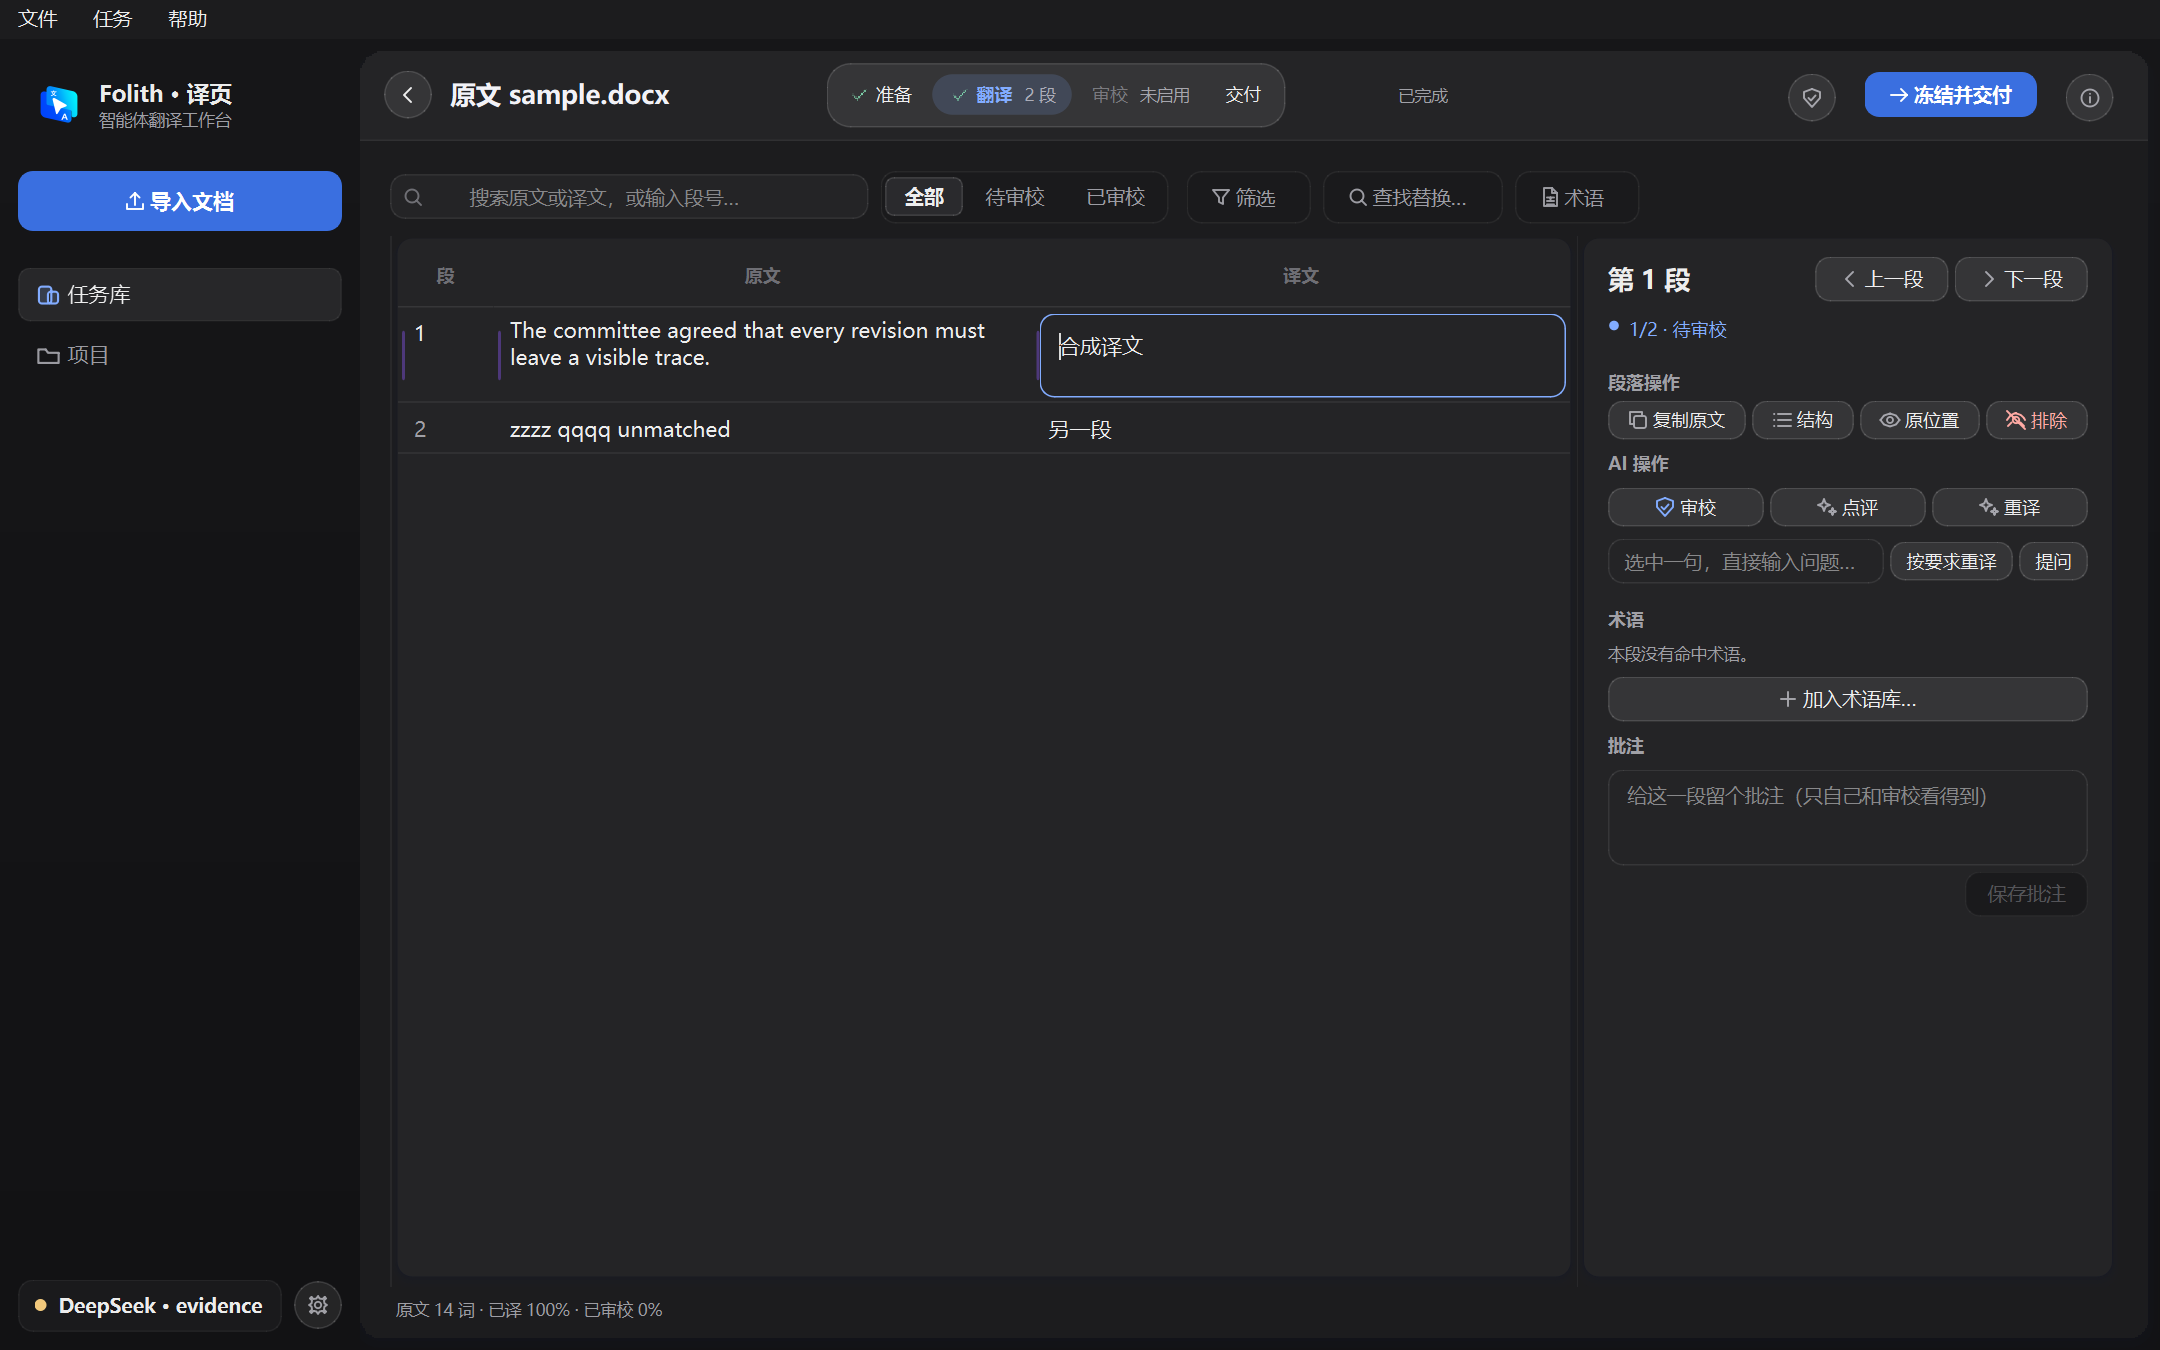
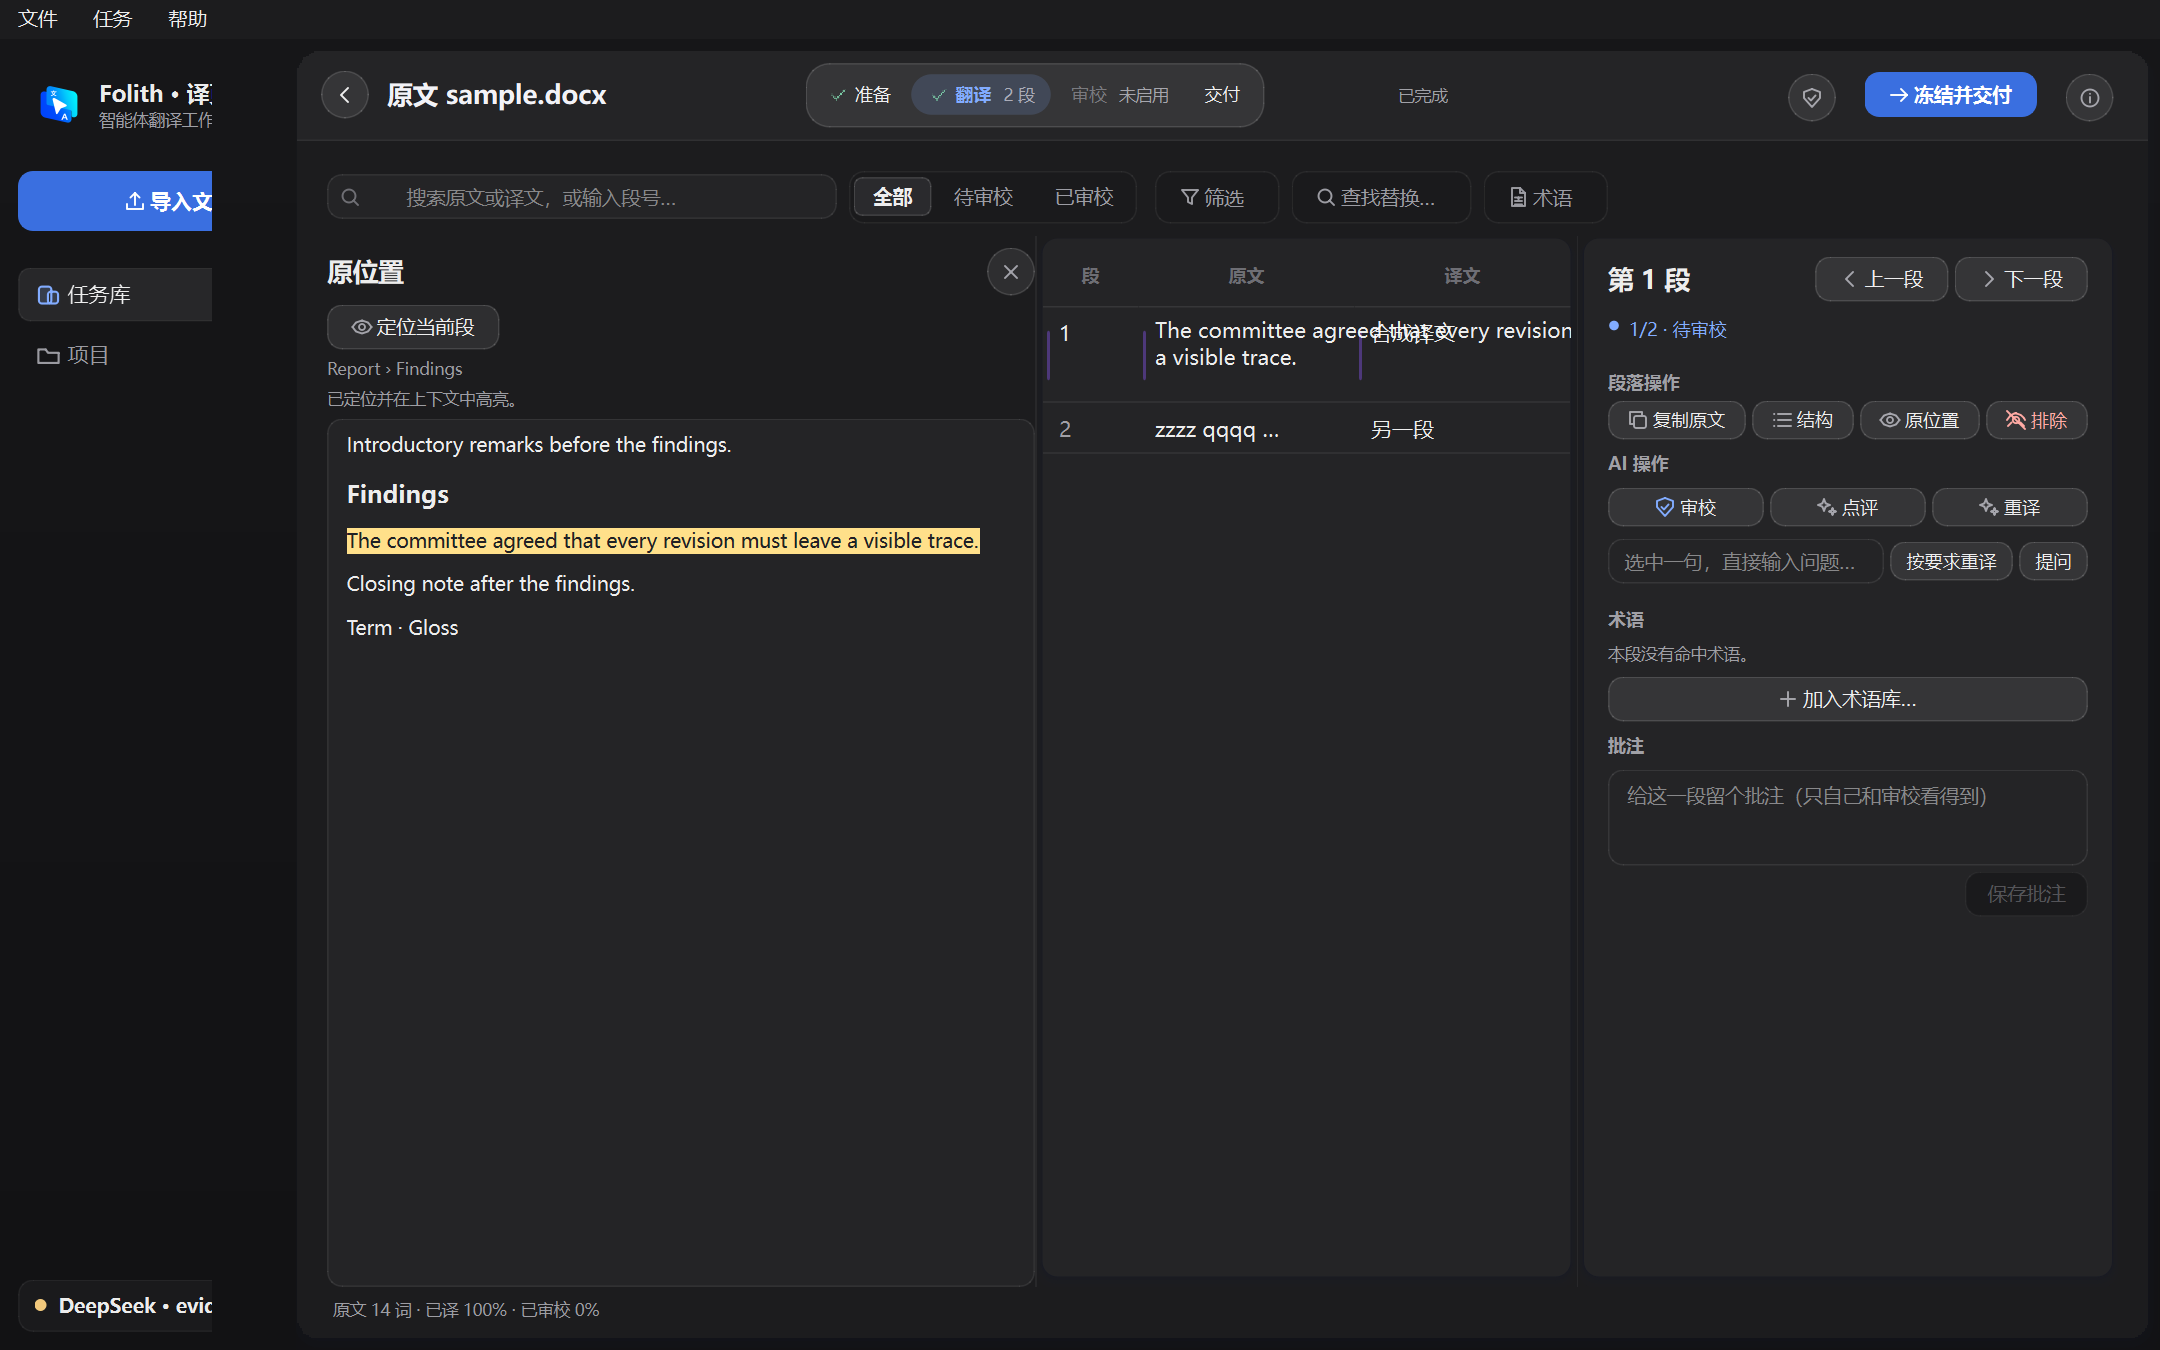
test(evidence): capture source panels after column animations settle

diff --git a/scripts/source_context_evidence.py b/scripts/source_context_evidence.py
@@ -76,6 +76,8 @@ def main():
                 bench.view_source_button.click()
                 panel = bench.source_panel
                 pump(lambda: panel.location.text() == expected)
+                pump(lambda: not bench._motion.running('translation-columns')
+                     and bench.source_clip.width() > 200)
                 assert bench.source_open() and panel.isVisible()
                 assert sentence in panel.view.toPlainText()
                 assert '#ffe08a' in panel.view.toHtml()
